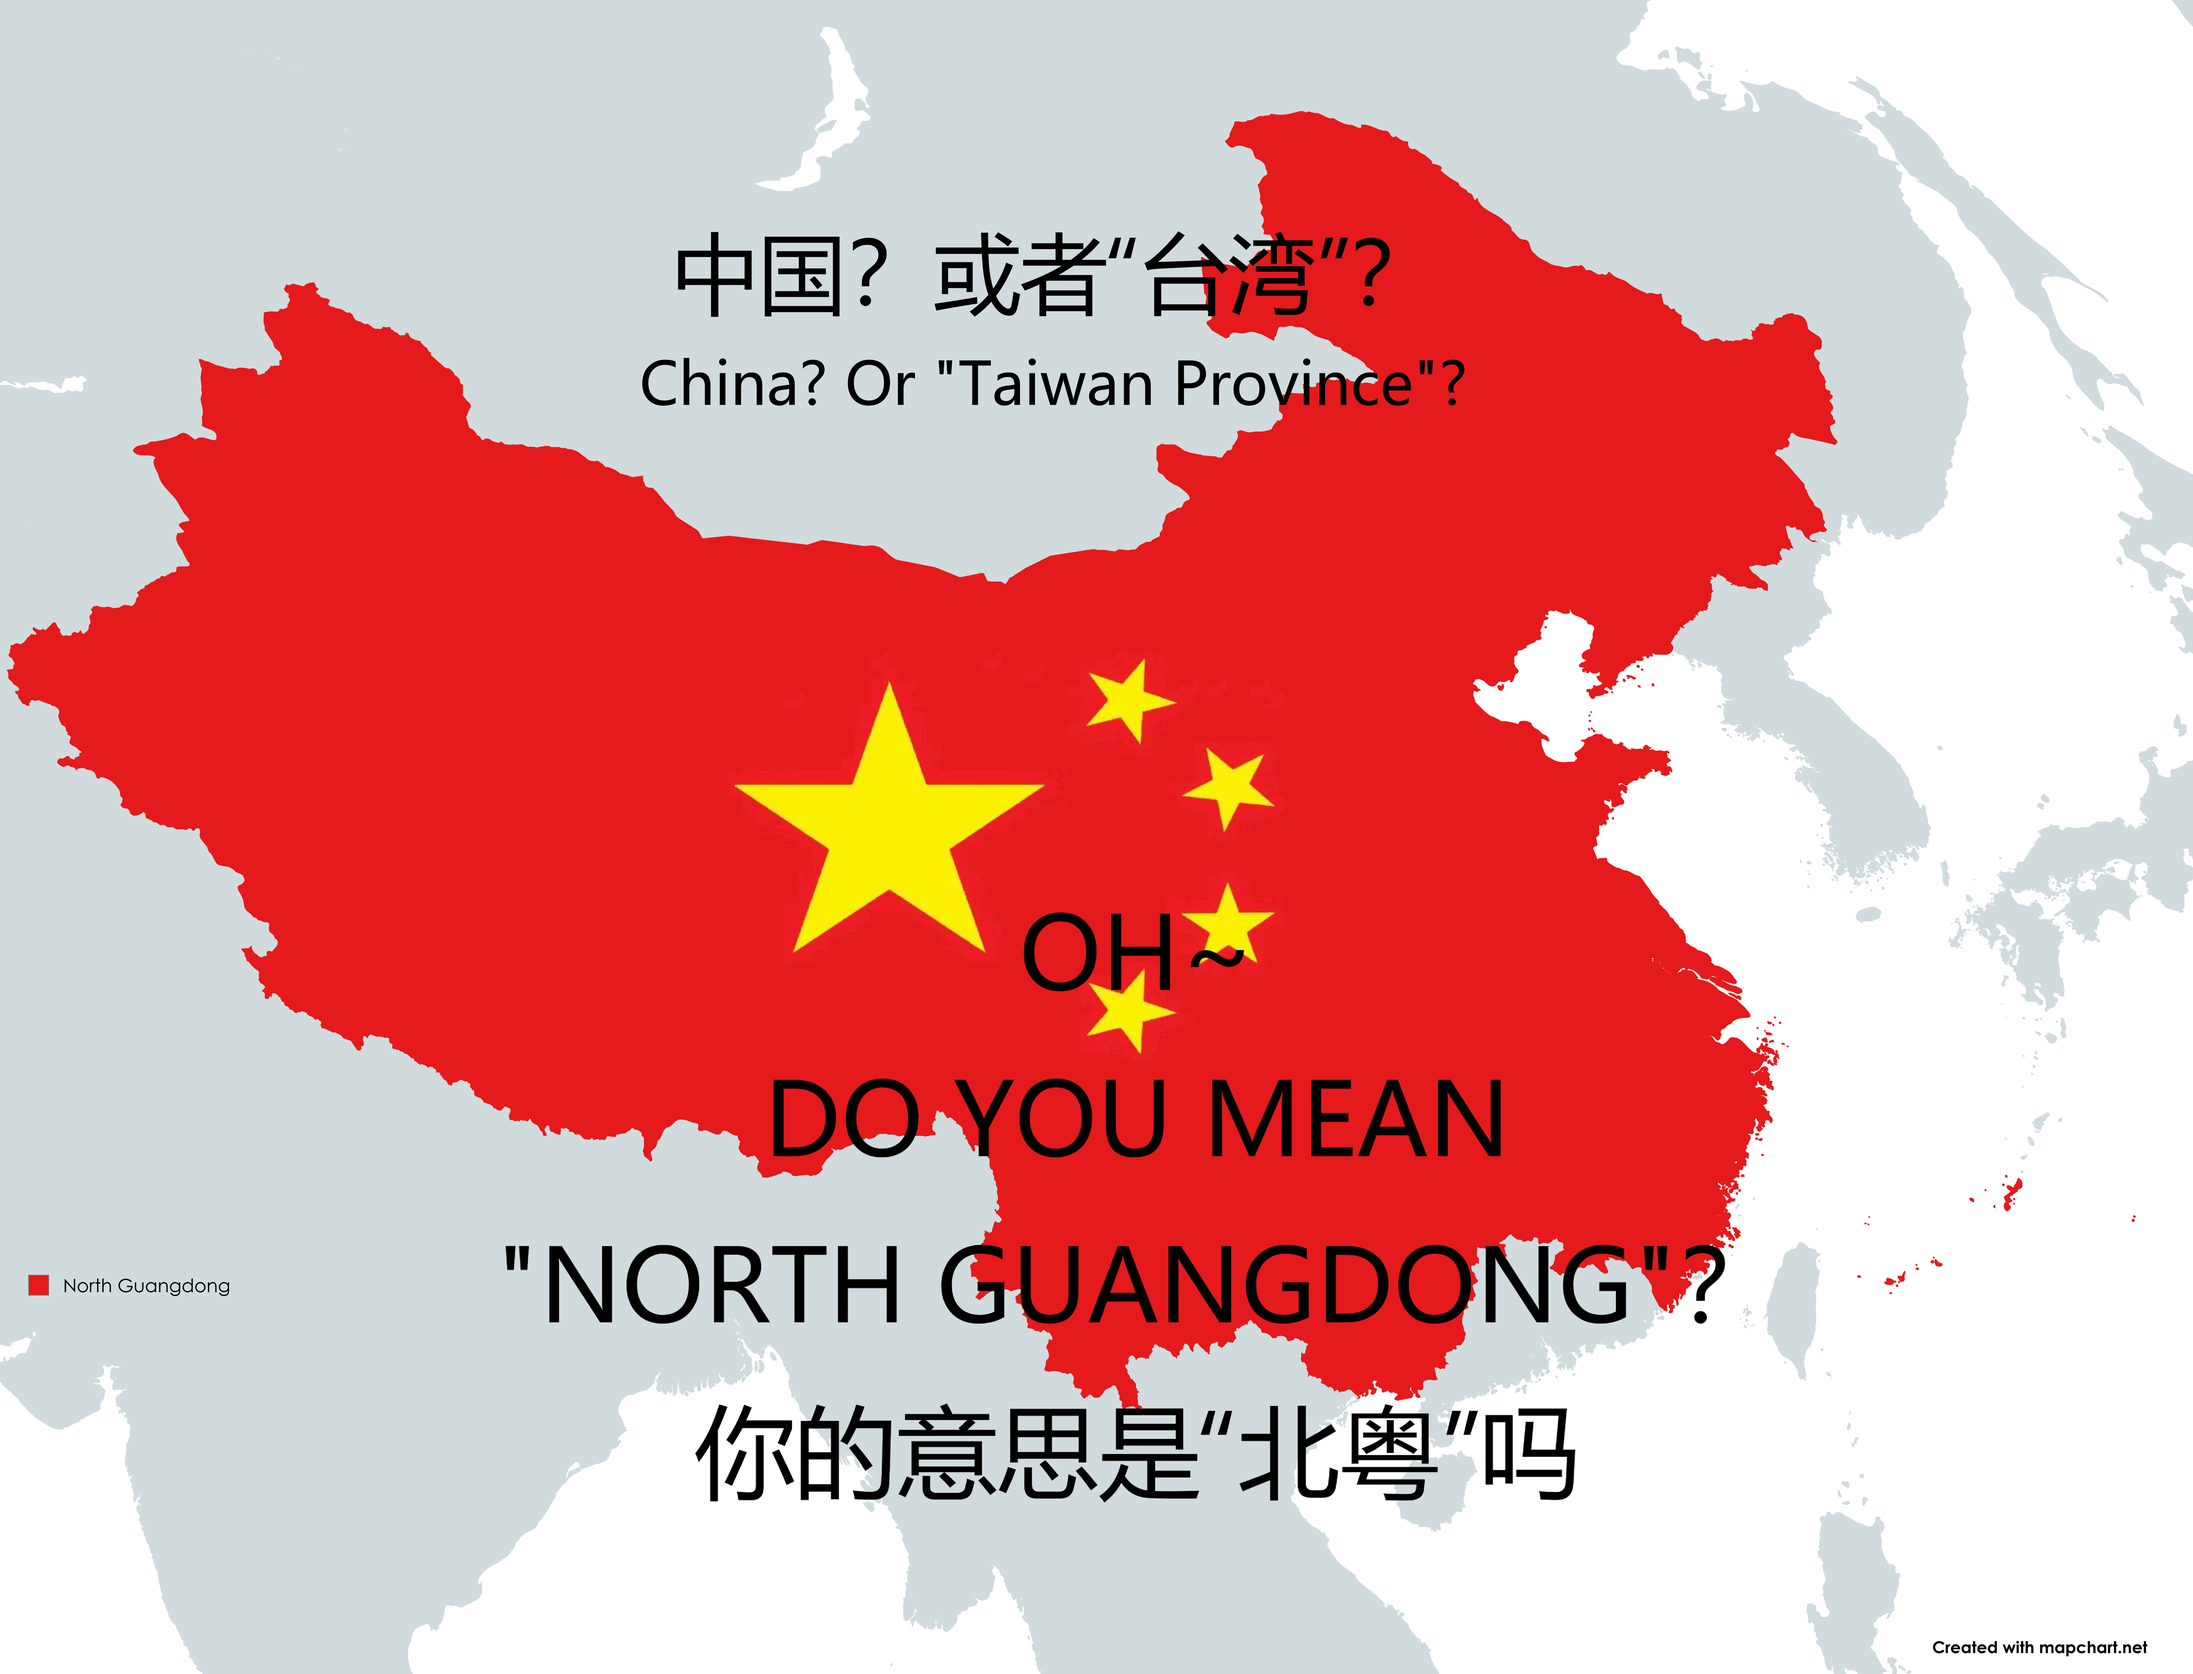
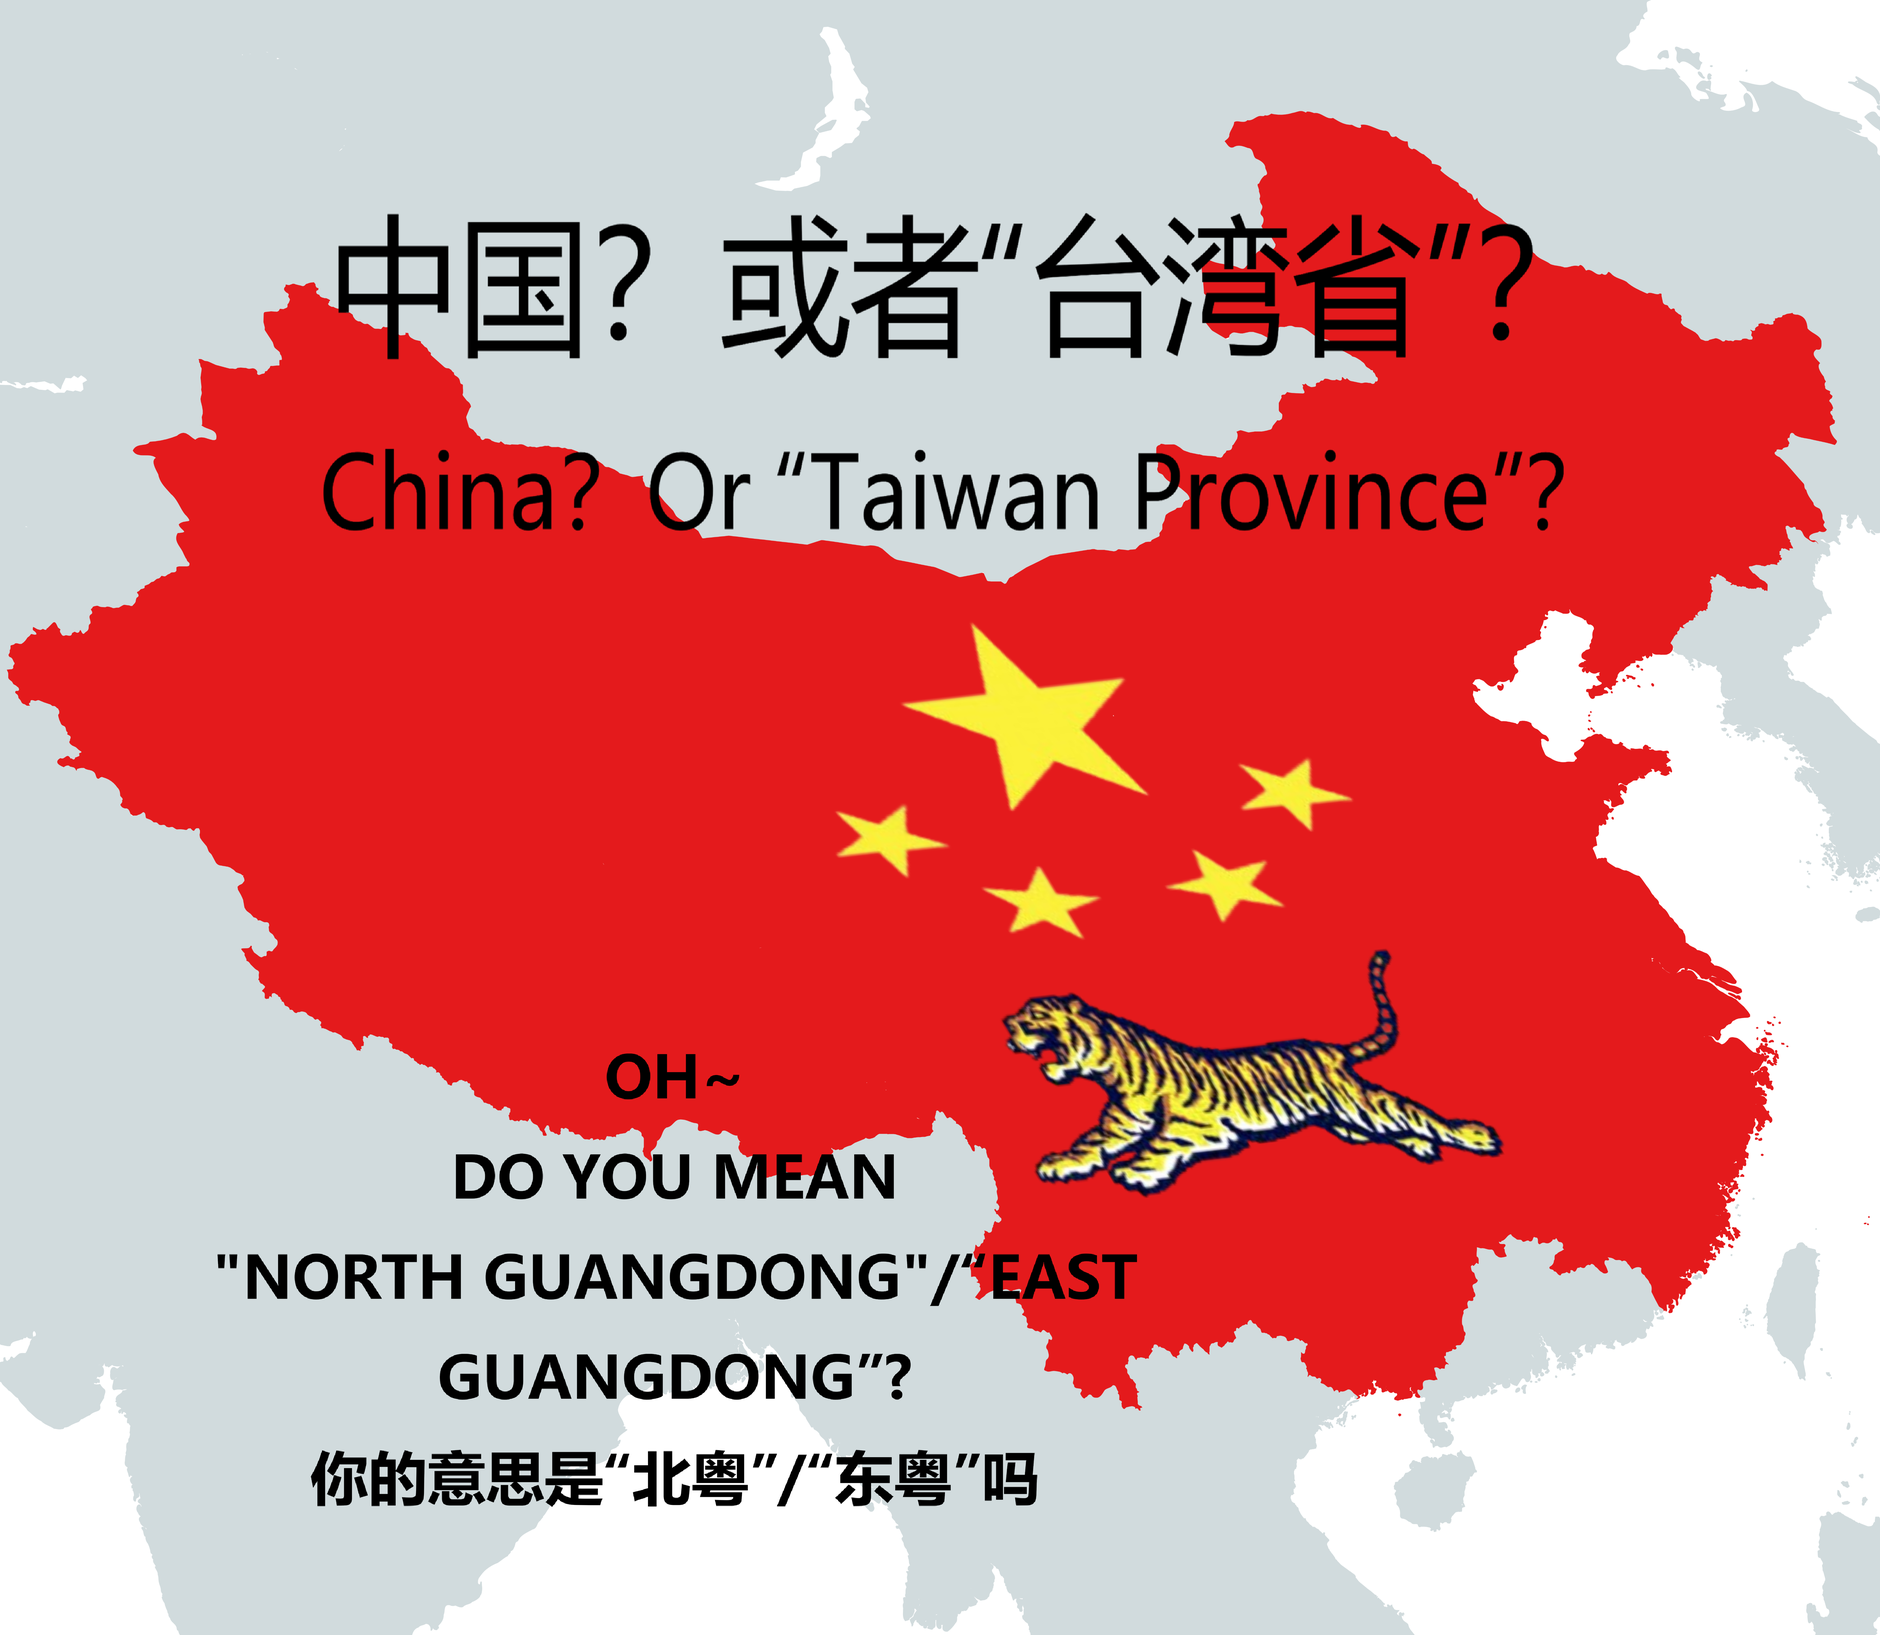
广东NO.1

diff --git a/README.md b/README.md
@@ -1,3 +1,4 @@
+:老虎的img2: https://raw.githubusercontent.com/MinecraftEarthVillage/img2/refs/heads/main/
 # 光复北粤，时代革命
 
 总有一天，被压迫的华南虎们会卸下身上的马具
@@ -6,7 +7,8 @@
 
 建立独立自主的 **大广东民主主义人民共和国**
 
-![](North_Guangdong_Map.png)
+image::{老虎的img2}/North_Guangdong_Map.png[height=600]
+image::{老虎的img2}/Guangdong_Map.png[height=600]
 
 >本人被内地全平台联合恶意封禁事后投诉置之不理致损失￥1000+，~~道心已破，转投向广东民主化运动~~
 
